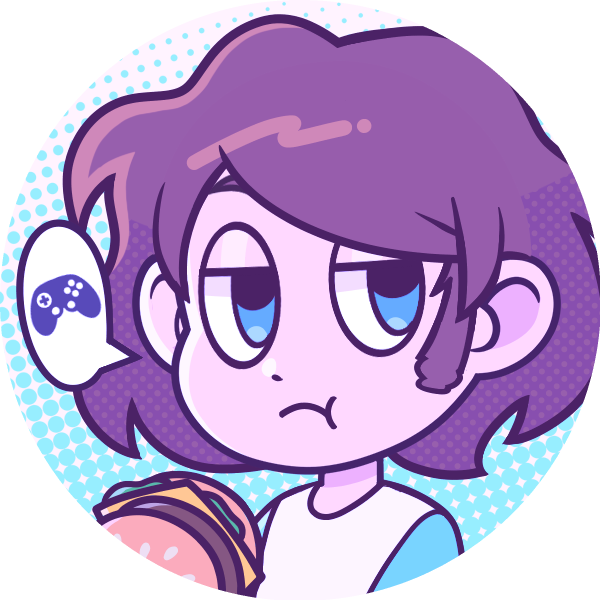
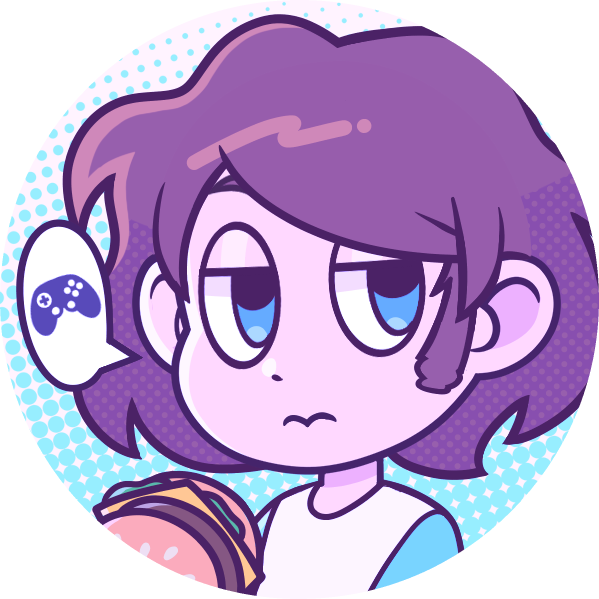
Slight design changes in img/meta_pfp.png and html files

diff --git a/index.html b/index.html
@@ -11,10 +11,9 @@
 </head>
 <body>
 	<div id="content">
-		<img src="img/meta_pfp.png" width="13%" height="13%" />
+		<img src="img/meta_pfp.png" width="10%" height="10%" />
 		<h1>23Sonics</h1>
 		<p>a content creator and developer of Windows MAN</p>
-		<hr>
 		<div id="links">
 			<ul>
 				<li><a href="https://github.com/23sonics" class="link">GitHub</a> |</li>

diff --git a/404.html b/404.html
@@ -14,7 +14,6 @@
 		<img src="img/meta_pfp.png" width="13%" height="13%" />
 		<h1>23Sonics</h1>
 		<p>a content creator and developer of Windows MAN</p>
-		<hr>
 		<div>
 			<p><strong>Whoops, nonexistent page!</strong> <a href="/">Go home!</a><p>
 		</div>
